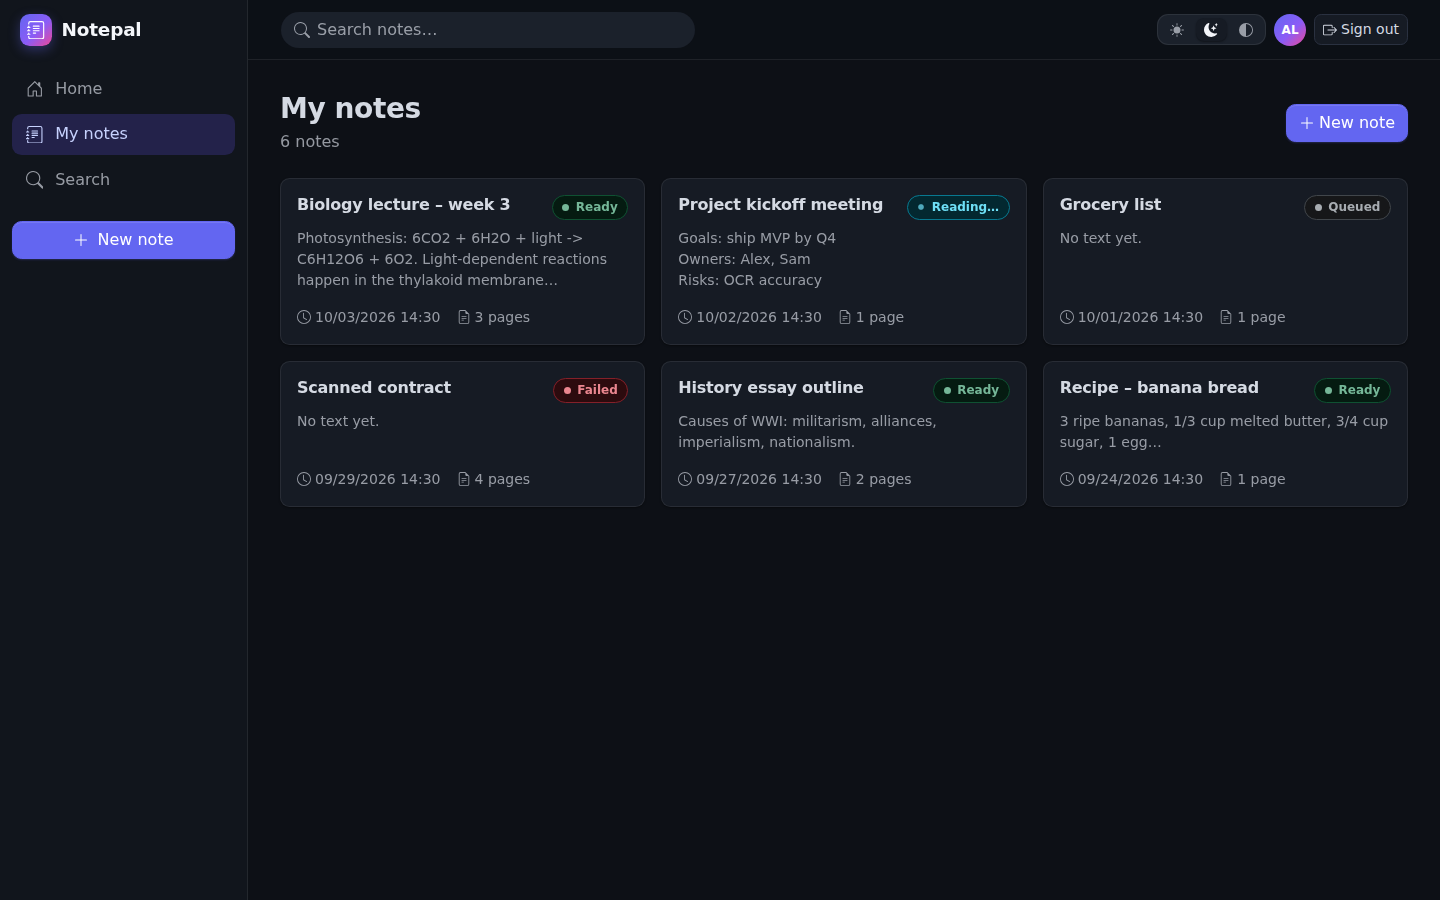
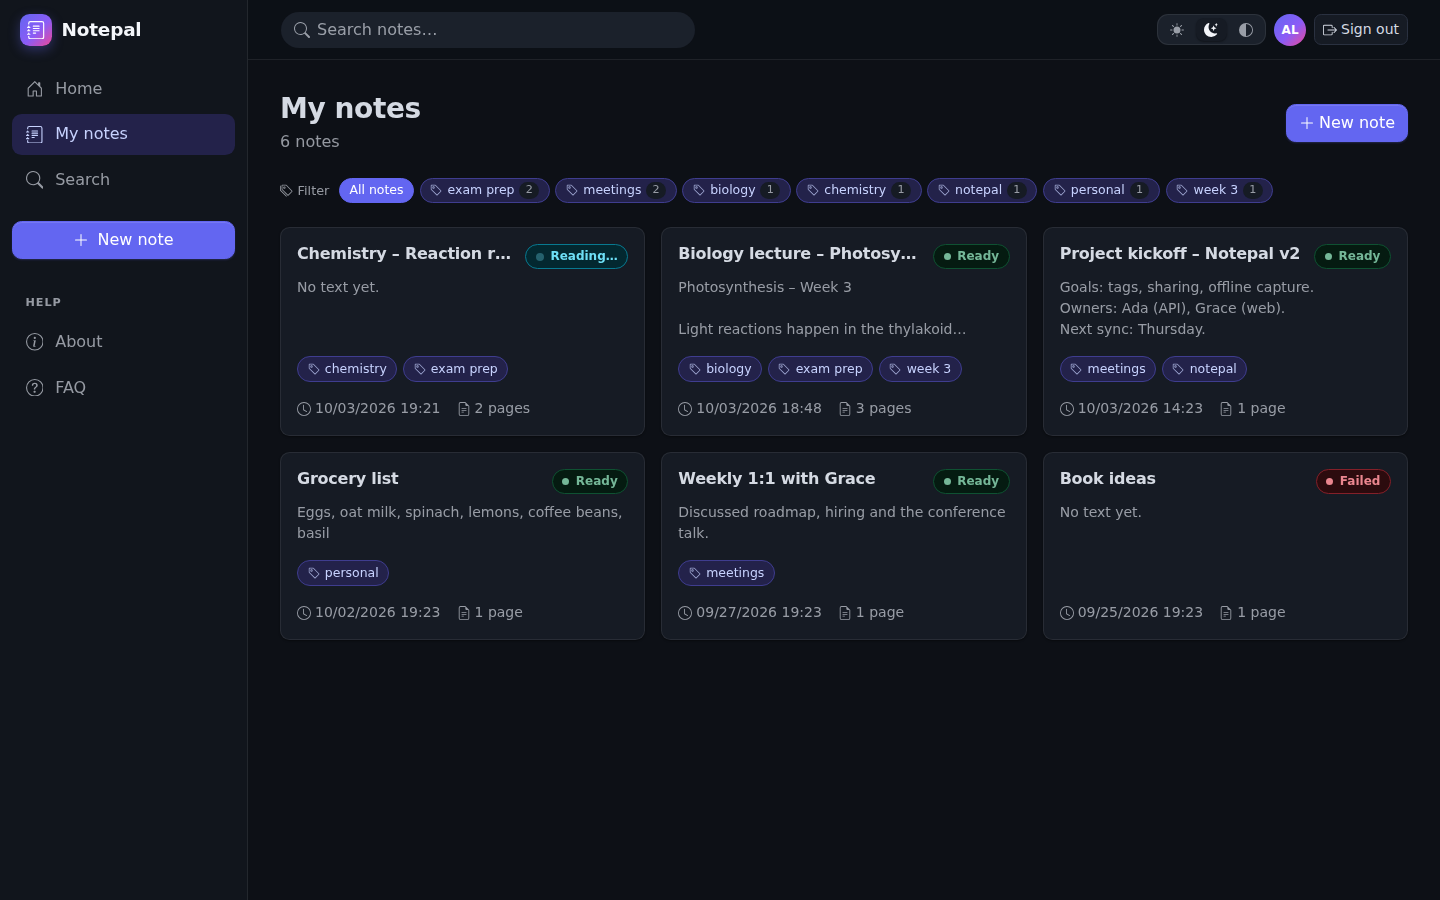
Refresh screenshots with tags; add tag editing and tag filter screenshots

diff --git a/docs/screenshots/README.md b/docs/screenshots/README.md
@@ -15,7 +15,14 @@ Captured from the web app at 1440×900 (mobile at 390×844) with sample data.
 | ![Original, light](light-note-original.png) | ![Original, dark](dark-note-original.png) |
 | ![Notes, light](light-note-notes.png) | ![Notes, dark](dark-note-notes.png) |
 
-## My notes, Search, New note, Welcome
+## Tags – edit on a note (with previously used suggestions) and filter My notes by tag
+
+| Light | Dark |
+| --- | --- |
+| ![Edit tags, light](light-note-edit-tags.png) | ![Edit tags, dark](dark-note-edit-tags.png) |
+| ![Tag filter, light](light-my-notes-tag-filter.png) | ![Tag filter, dark](dark-my-notes-tag-filter.png) |
+
+## My notes, Search (text + tag), New note (with tags), Welcome
 
 | Light | Dark |
 | --- | --- |
